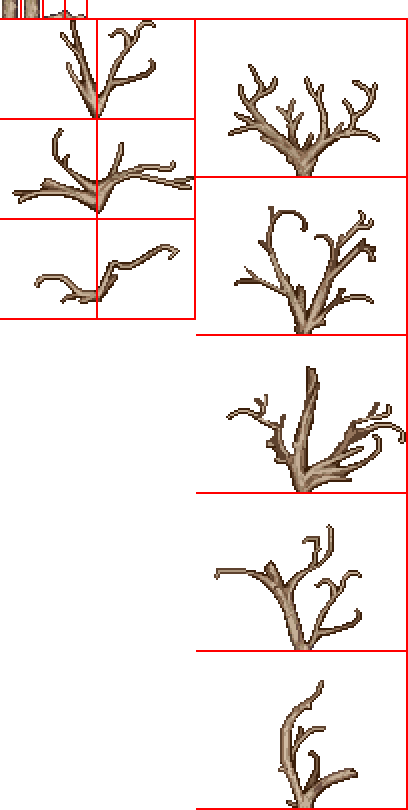
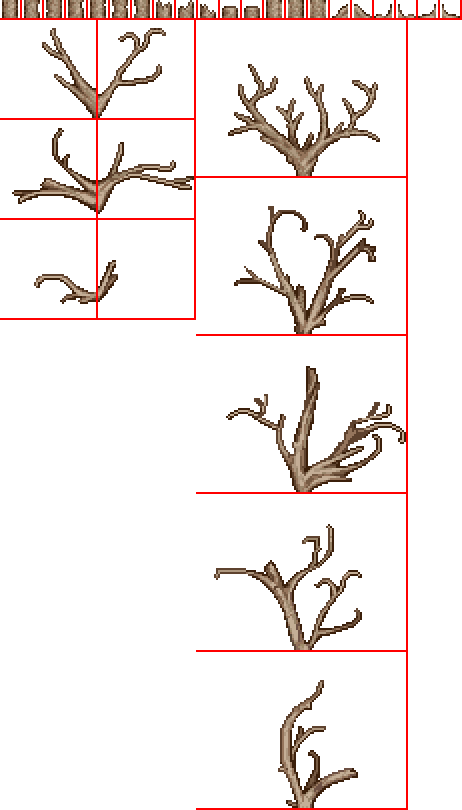
Tree stump updates

Changed region(s): [[0.0, 0.0, 1.0, 1.0], [0.4118, 0.9877, 0.4706, 1.0], [0.7647, 0.8333, 0.7941, 0.8642]]

diff --git a/Content/SaltFlats/Tiles/DeadTree.cs b/Content/SaltFlats/Tiles/DeadTree.cs
@@ -22,11 +22,58 @@ public class DeadTree : CustomTree
 
 	public override SegmentType FindSegment(int i, int j)
 	{
-		if (Main.tile[i, j].TileFrameX > FrameSize)
+		if (Main.tile[i, j].TileFrameX > FrameSize * 6)
 			return SegmentType.Bare;
 
 		int type = Framing.GetTileSafely(i, j - 1).TileType;
 		return (type != Type) ? SegmentType.LeafyTop : SegmentType.Default;
+	}
+
+	public override void KillTile(int i, int j, ref bool fail, ref bool effectOnly, ref bool noItem)
+	{
+		if (!effectOnly)
+		{
+			if (!fail) //Switch to the 'chopped' frame
+				Framing.GetTileSafely(i, j + 1).TileFrameX = (short)(WorldGen.genRand.Next(10, 12) * FrameSize);
+			else
+				ShakeTree(i, j);
+		}
+	}
+
+	protected override void OnShakeTree(int i, int j)
+	{
+		if (Main.rand.NextBool(3))
+		{
+			Vector2 position = new Vector2(i, j - 3) * 16;
+			Item.NewItem(null, new Rectangle((int)position.X, (int)position.Y, 16, 16), AutoContent.ItemType<Drywood>(), Main.rand.Next(3, 11));
+		}
+
+		GrowEffects(i, j, true);
+	}
+
+	public override bool TileFrame(int i, int j, ref bool resetFrame, ref bool noBreak)
+	{
+		Tile tile = Main.tile[i, j];
+		Tile right = Framing.GetTileSafely(i + 1, j);
+		Tile left = Framing.GetTileSafely(i - 1, j);
+		Tile top = Framing.GetTileSafely(i, j - 1);
+		Tile bottom = Framing.GetTileSafely(i, j + 1);
+
+		if (top.HasTileType(Type) || bottom.HasTileType(Type))
+		{
+			if (left.TileType == Type && right.TileType == Type)
+				tile.TileFrameX = 14 * FrameSize;
+			else if (right.TileType == Type)
+				tile.TileFrameX = 12 * FrameSize;
+			else if (left.TileType == Type)
+				tile.TileFrameX = 13 * FrameSize;
+		}
+		else if (!left.HasTileType(Type) && !right.HasTileType(Type) && tile.TileFrameX >= FrameSize * 15)
+		{
+			WorldGen.KillTile(i, j);
+		}
+
+		return base.TileFrame(i, j, ref resetFrame, ref noBreak);
 	}
 
 	public override void DrawTreeFoliage(int i, int j, SpriteBatch spriteBatch)
@@ -45,7 +92,7 @@ public class DeadTree : CustomTree
 			var source = new Rectangle(196, 20 + (size.Y + 2) * frameY, size.X, size.Y);
 			var origin = new Vector2(source.Width / 2, source.Height);
 
-			spriteBatch.Draw(texture, position + new Vector2(7, 0), source, color, rotation, origin, 1, SpriteEffects.None, 0);
+			spriteBatch.Draw(texture, position + new Vector2(7, 2), source, color, rotation, origin, 1, SpriteEffects.None, 0);
 		}
 		else //Draw branches
 		{
@@ -56,7 +103,7 @@ public class DeadTree : CustomTree
 			var source = new Rectangle((size.X + 2) * frameX, 20 + (size.Y + 2) * frameY, size.X, size.Y);
 			var origin = new Vector2((frameX == 0) ? source.Width : 0, 80);
 
-			position += new Vector2(6 * ((frameX == 0) ? -1 : 1), 8); //Directional offset
+			position += new Vector2(4 * ((frameX == 0) ? -1 : 1), 8); //Directional offset
 
 			spriteBatch.Draw(texture, position + new Vector2(10, 0), source, color, rotation, origin, 1, SpriteEffects.None, 0);
 		}
@@ -70,18 +117,33 @@ public class DeadTree : CustomTree
 		for (int h = 0; h < height; h++)
 		{
 			int style = WorldGen.genRand.NextFromList(0, 1);
+			short offset = TreeExtensions.GetPalmOffset(j, variance, height, ref xOff);
 
-			WorldGen.PlaceTile(i, j - h, Type, true);
-			Tile tile = Framing.GetTileSafely(i, j - h);
+			PlaceSegment(i, j - h, (short)(style * FrameSize), offset);
 
-			if (tile.HasTile && tile.TileType == Type)
+			if (h == 0)
 			{
-				tile.TileFrameX = (short)(style * FrameSize);
-				tile.TileFrameY = TreeExtensions.GetPalmOffset(j, variance, height, ref xOff);
+				if (WorldGen.genRand.NextBool())
+					PlaceSegment(i - 1, j, (short)(WorldGen.genRand.NextFromList(15, 17, 19) * FrameSize), offset);
+
+				if (WorldGen.genRand.NextBool())
+					PlaceSegment(i + 1, j, (short)(WorldGen.genRand.NextFromList(16, 18, 20) * FrameSize), offset);
 			}
 		}
 
+		WorldGen.SquareTileFrame(i, j);
+
 		if (Main.netMode != NetmodeID.SinglePlayer)
-			NetMessage.SendTileSquare(-1, i, j + 1 - height, 1, height, TileChangeType.None);
+			NetMessage.SendTileSquare(-1, i - 1, j + 1 - height, 3, height, TileChangeType.None);
+
+		static void PlaceSegment(int i, int j, short frameX, short frameY)
+		{
+			int type = ModContent.TileType<DeadTree>();
+			if (Placer.PlaceTile(i, j, type).success)
+			{
+				Main.tile[i, j].TileFrameX = frameX;
+				Main.tile[i, j].TileFrameY = frameY;
+			}
+		}
 	}
 }

diff --git a/Common/TileCommon/Tree/CustomTree.cs b/Common/TileCommon/Tree/CustomTree.cs
@@ -195,10 +195,13 @@ public abstract class CustomTree : ModTile, IModifySmartTarget
 
 	public override void KillTile(int i, int j, ref bool fail, ref bool effectOnly, ref bool noItem)
 	{
-		if (!fail) //Switch to the 'chopped' frame
-			Framing.GetTileSafely(i, j + 1).TileFrameX = (short)(WorldGen.genRand.Next(9, 12) * FrameSize);
-		else
-			ShakeTree(i, j);
+		if (!effectOnly)
+		{
+			if (!fail) //Switch to the 'chopped' frame
+				Framing.GetTileSafely(i, j + 1).TileFrameX = (short)(WorldGen.genRand.Next(9, 12) * FrameSize);
+			else
+				ShakeTree(i, j);
+		}
 	}
 
 	public sealed override bool PreDraw(int i, int j, SpriteBatch spriteBatch)
@@ -217,8 +220,8 @@ public abstract class CustomTree : ModTile, IModifySmartTarget
 		if (!TileExtensions.GetVisualInfo(i, j, out Color color, out Texture2D texture))
 			return;
 
-		Tile t = Main.tile[i, j];
-		Rectangle source = new(t.TileFrameX % (FrameSize * 12), 0, FrameSize - 2, FrameSize - 4);
+		Tile tile = Main.tile[i, j];
+		Rectangle source = new(tile.TileFrameX, 0, FrameSize - 2, FrameSize - 4);
 		Vector2 position = new Vector2(i, j) * 16 - Main.screenPosition + TileExtensions.TileOffset + TreeExtensions.GetPalmTreeOffset(i, j);
 
 		spriteBatch.Draw(texture, position, source, color, 0, Vector2.Zero, 1, SpriteEffects.None, 0);

diff --git a/Common/TileCommon/TileExtensions.cs b/Common/TileCommon/TileExtensions.cs
@@ -250,6 +250,9 @@ public static class TileExtensions
 	/// <returns>The tile data.</returns>
 	public static TileObjectData SafelyGetData(this Tile tile) => TileObjectData.GetTileData(tile);
 
+	/// <summary> Returns whether <see cref="Tile.HasTile"/> and <see cref="Tile.TileType"/> equals <paramref name="type"/>. </summary>
+	public static bool HasTileType(this Tile tile, int type) => tile.HasTile && tile.TileType == type;
+
 	/// <summary>
 	/// Mutually merges the given tile with all of the ids in <paramref name="otherIds"/>.
 	/// </summary>

diff --git a/Content/Savanna/Tiles/AcaciaTree/AcaciaTree.cs b/Content/Savanna/Tiles/AcaciaTree/AcaciaTree.cs
@@ -56,7 +56,7 @@ public class AcaciaTree : CustomTree, ISetConversion
 
 	public override SegmentType FindSegment(int i, int j)
 	{
-		if (Main.tile[i, j].TileFrameX <= FrameSize * 5)
+		if (Main.tile[i, j].TileFrameX > FrameSize * 5)
 			return SegmentType.Bare;
 
 		int type = Framing.GetTileSafely(i, j - 1).TileType;
